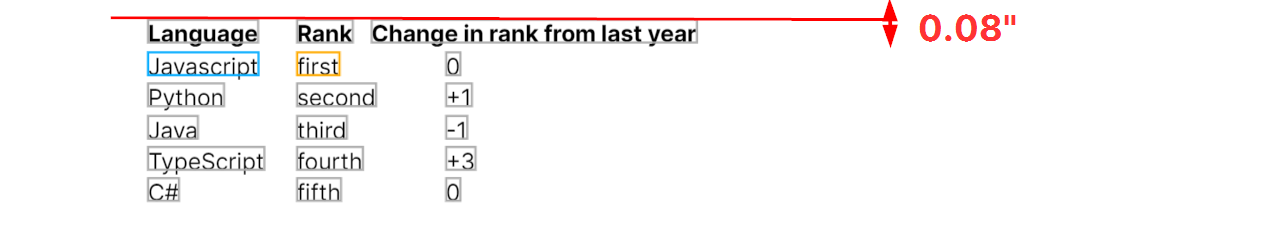
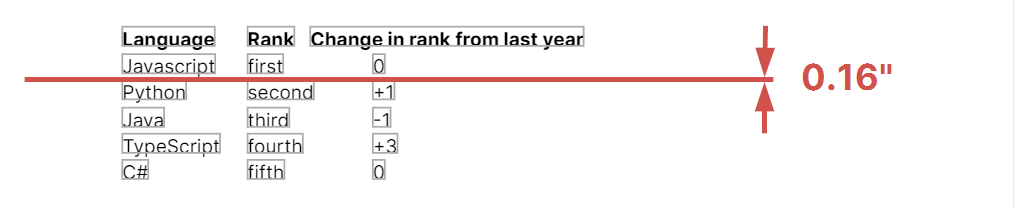
polish

Changed region(s): [[0.0, 0.0, 0.8866, 0.8942]]

diff --git a/readme-sync/v0/senseml-reference/300 - methods/200 - row.md b/readme-sync/v0/senseml-reference/300 - methods/200 - row.md
@@ -4,7 +4,7 @@ hidden: false
 ---
 Matches all lines to the left or right of the anchor line. 
 
- A "row" is defined as lines of text distributed along a horizontal line. Each matching line in the "row" must have a top boundary that is within  0.08 inches of the anchor's top boundary.  For example, the following image shows a red line that defines the alignment for a row of bold text:
+ A "row" is defined as lines of text distributed along a horizontal line. Each matching line in the "row" must have a top boundary that is within 0.08 inches below or above the anchor's top boundary, for a total range of 0.16" inches.  For example, the following image shows a red line that defines the alignment for a row of bold text:
 
 ![Click to enlarge](https://raw.githubusercontent.com/sensible-hq/sensible-docs/main/readme-sync/assets/v0/images/final/row_align.png)
 
@@ -28,7 +28,10 @@ Parameters
 Examples
 ====
 
-The following example shows the Row method.
+The following example shows  extracting data from two consecutive tables using the Row method:
+
+1. The first field has an anchor with two matches to avoid duplicate text in the second table. First the anchor matches the text `most popular on github`, then it anchors on the text  `first`  in a row. The method then extracts the top-ranked Github language name to the left of the anchor match. 
+2. The second field also has an anchor with two matches. It anchors on the row containing `Python`, then extracts the second percentage in the row to the right of the anchor.
 
 **Config**
 
@@ -80,7 +83,7 @@ The following example shows the Row method.
 
 **PDF**
 
-The following image shows the data extracted by this config for the following example PDF
+The following image shows the data extracted by this config for the following example PDF:
 
 ![Click to enlarge](https://raw.githubusercontent.com/sensible-hq/sensible-docs/main/readme-sync/assets/v0/images/final/row_example.png)
 
@@ -103,16 +106,9 @@ The following image shows the data extracted by this config for the following ex
 }
 ```
 
-**Notes**
-
-The preceding example demonstrates extracting data from two consecutive tables:
-
-1. The first field has an anchor with two matches to avoid duplicate text in the second table. First the anchor matches the text `most popular on github`, then it anchors on the text  `first`  in a row. The method then extracts the top-ranked Github language name to the left of the anchor match. 
-2. The second field also has an anchor with two matches. It anchors on the row containing `Python`, then extracts the second percentage in the row to the right of the anchor.
-
 Notes
 -----
 
 - To extract an entire table, see the [Table method](doc:table). 
 - To extract a column, see the [Column method](doc:column). 
-- In a row with optional empty cells, a tiebreaker may return lines from inconsistent columns. Use the [Intersection method](doc:intersection) instead.
+- In a row with optional empty cells, a tiebreaker can return lines from inconsistent columns. Use the [Intersection method](doc:intersection) instead.

diff --git a/readme-sync/v0/senseml-reference/300 - methods/170 - passthrough.md b/readme-sync/v0/senseml-reference/300 - methods/170 - passthrough.md
@@ -53,7 +53,7 @@ The following example uses regular expressions to extract a list of forms that a
 
 **PDF**
 
-![Click to enlarge](https://raw.githubusercontent.com/sensible-hq/sensible-docs/main/readme-sync/assets/v0/images/final/passthrough_regex.png)
+![Click to enlarge](https://raw.githubusercontent.com/sensible-hq/sensible-docs/main/readme-sync/assets/v0/images/final/passthrough_example.png)
 
 | Example PDF | [Download link](https://www.irs.gov/pub/irs-pdf/fw9.pdf) |
 | ------------------------------- | ---------------------------------------------------------------------------------------------------------------------------------------- |
